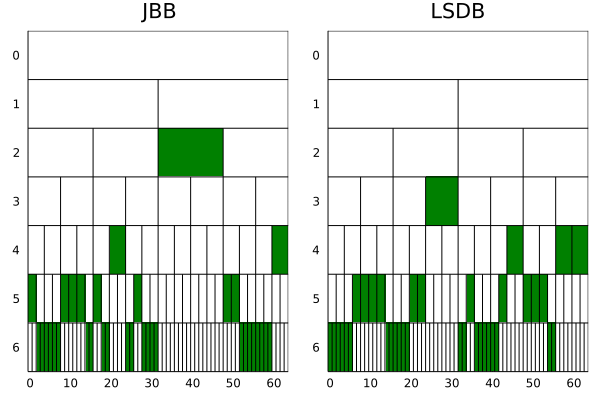
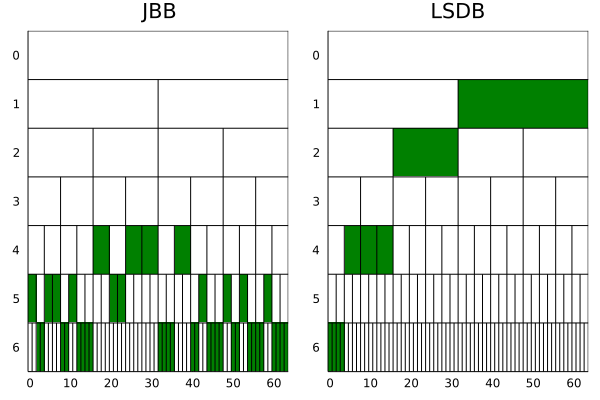
Merging updates to conform to JOSS guidelines (#46)
* Update code examples for paper/paper.md to follow syntax of v0.1.14

* Update to VERSION v0.1.15

* No changes in functionalities in current patch update. Only fixes and additions are made to
follow JOSS guidelines.

* Remove OhMyREPL and Revise from Project.toml

diff --git a/paper/paper.md b/paper/paper.md
@@ -71,12 +71,12 @@ xw = wpdall(x, wt, 6)
 
 # ----- Joint Best Basis (JBB)
 tree = bestbasistree(xw, JBB())
-p1 = plot_tfbdry(tree, nd_col=:black, ln_col=:black, bg_col=:white) |> 
+p1 = plot_tfbdry(tree, node_color=:green, line_color=:black, background_color=:white) |> 
      p -> plot!(p, title="JBB")
 
 # ----- Least Statistically Dependent Basis (LSDB)
 tree = bestbasistree(xw, LSDB())
-p2 = plot_tfbdry(tree, nd_col=:black, ln_col=:black, bg_col=:white) |> 
+p2 = plot_tfbdry(tree, node_color=:green, line_color=:black, background_color=:white) |> 
      p -> plot!(p, title="LSDB")
 
 # Combine and save plot
@@ -159,7 +159,7 @@ ldb = LocalDiscriminantBasis(
 X̂ = fit_transform(ldb, X, y)
 
 # Plot the best basis for feature extraction
-p2 = plot_tfbdry(ldb.tree, nd_col=:black, ln_col=:black, bg_col=:white)
+p2 = plot_tfbdry(ldb.tree, node_color=:green, line_color=:black, background_color=:white)
 plot!(p2, title="Basis Selection using LDB")
 
 # Combine and save plot
